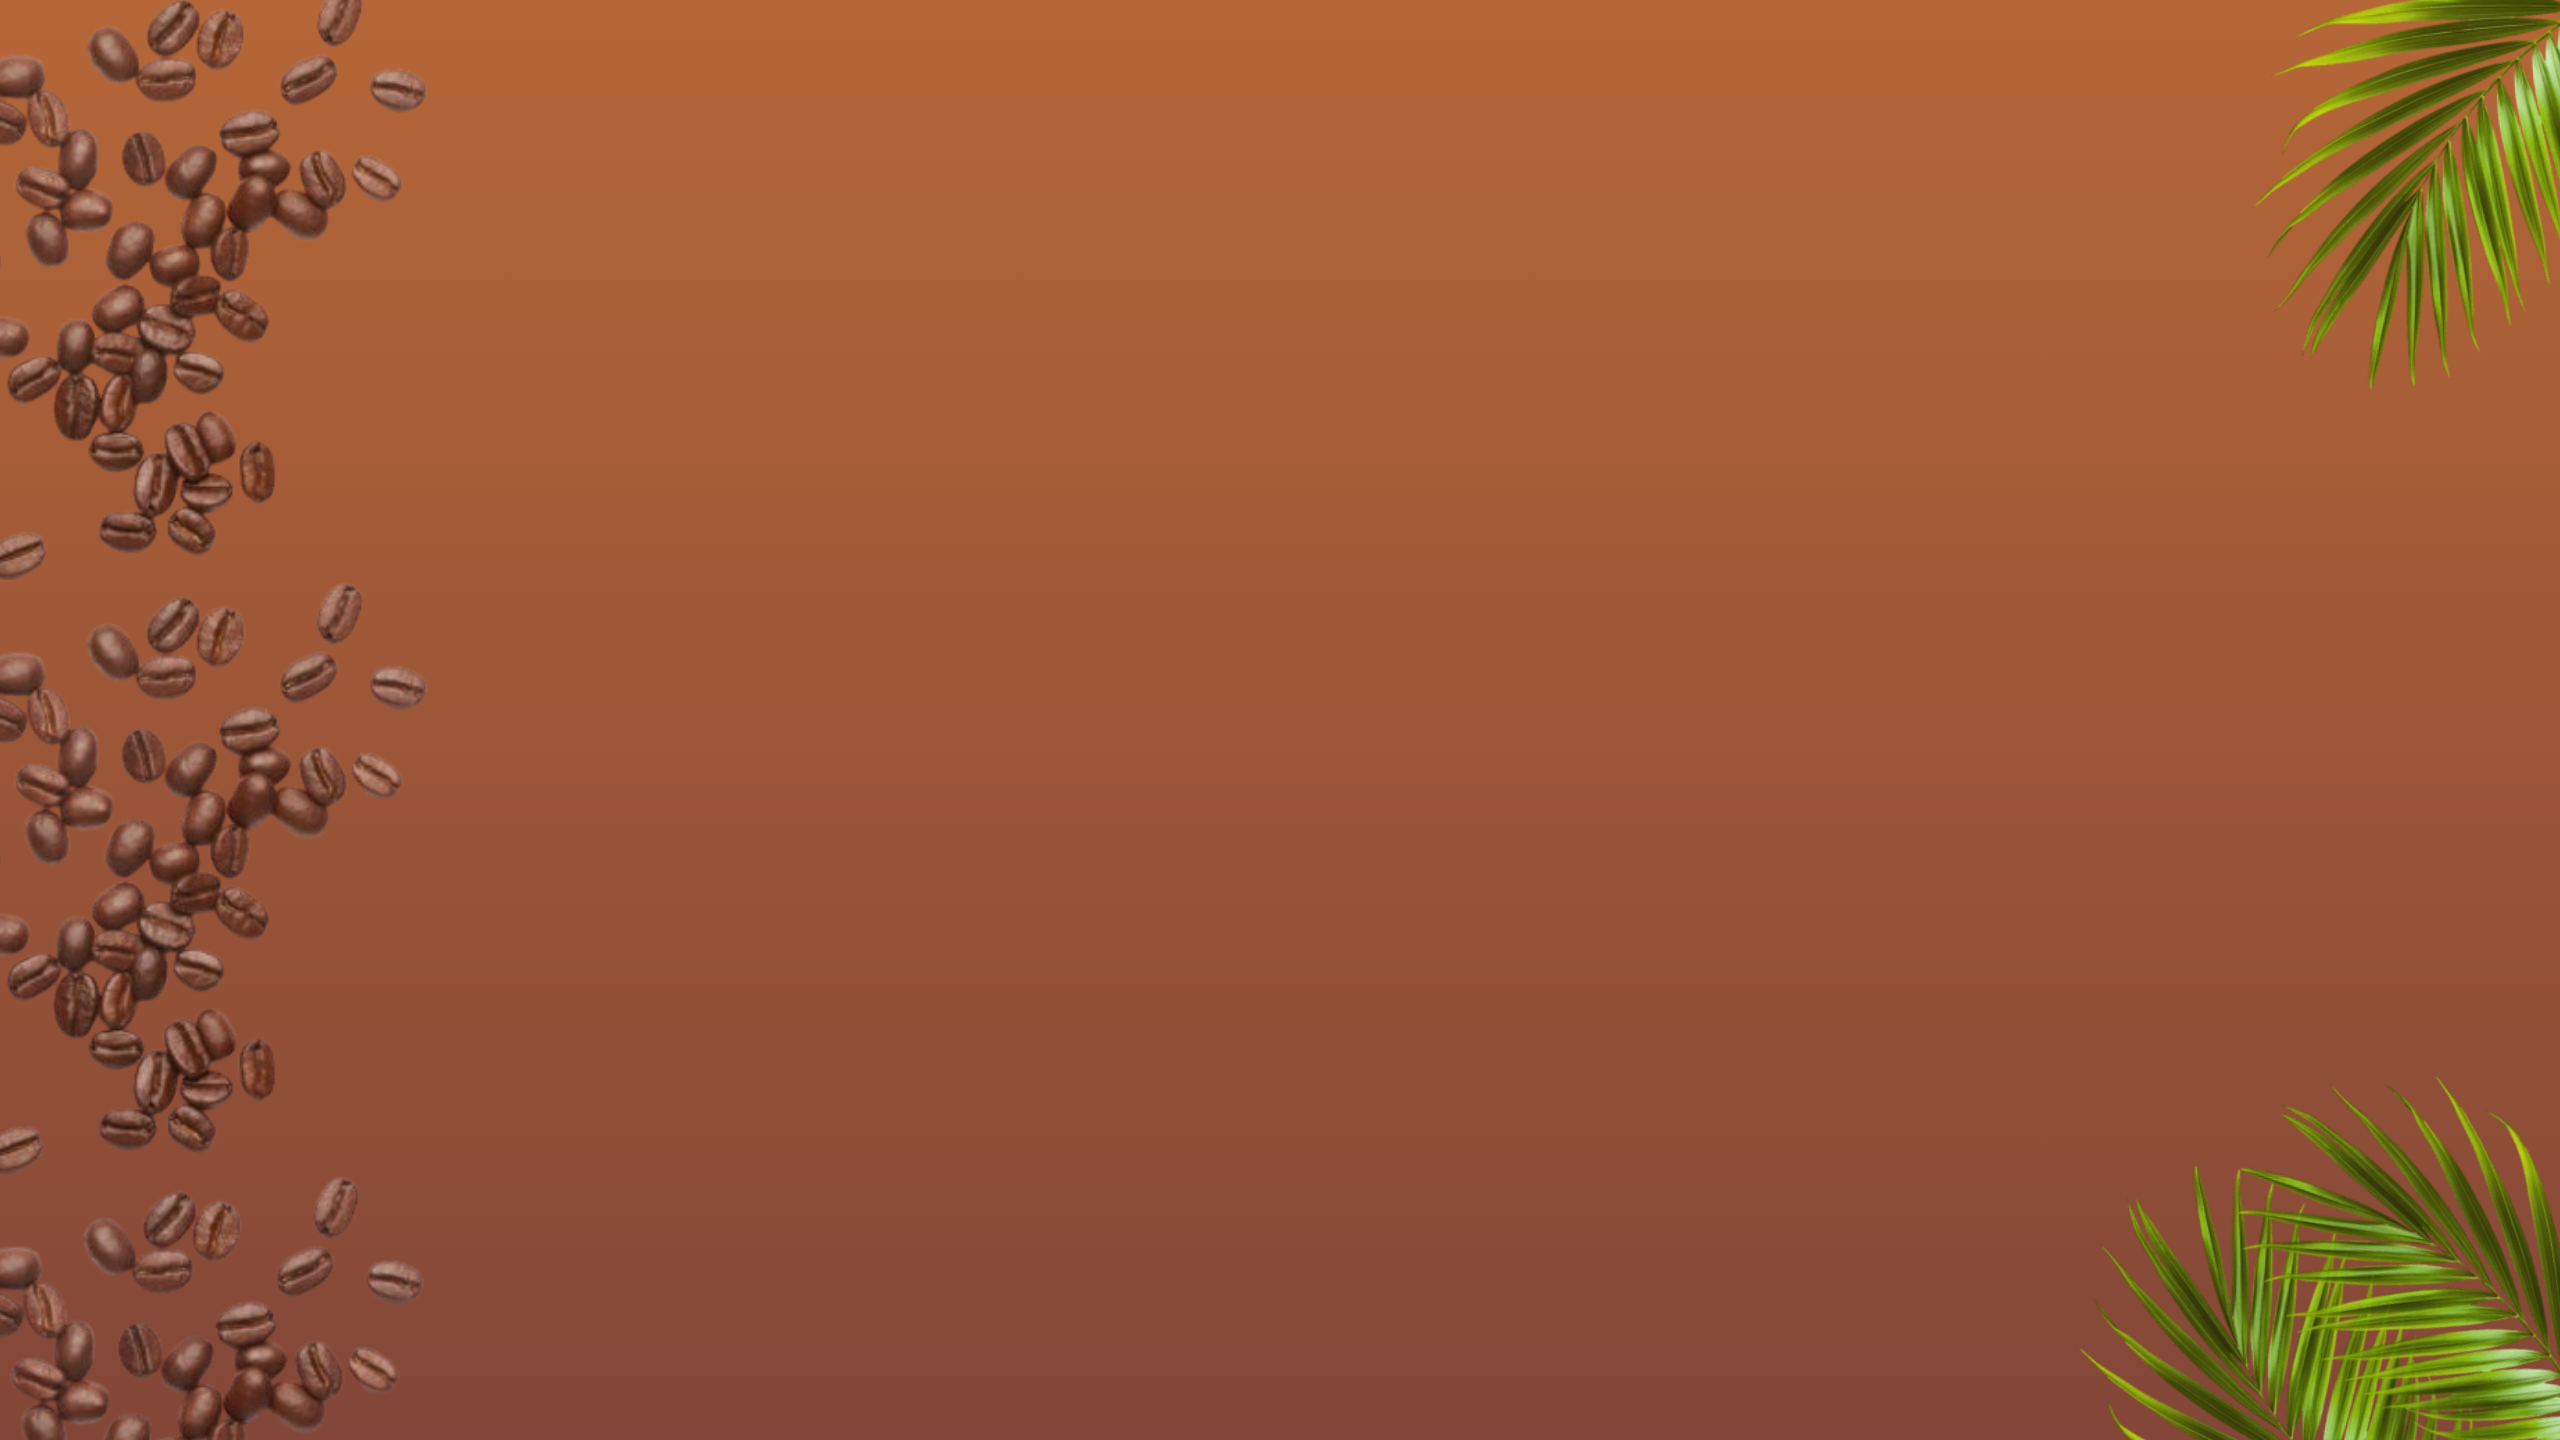
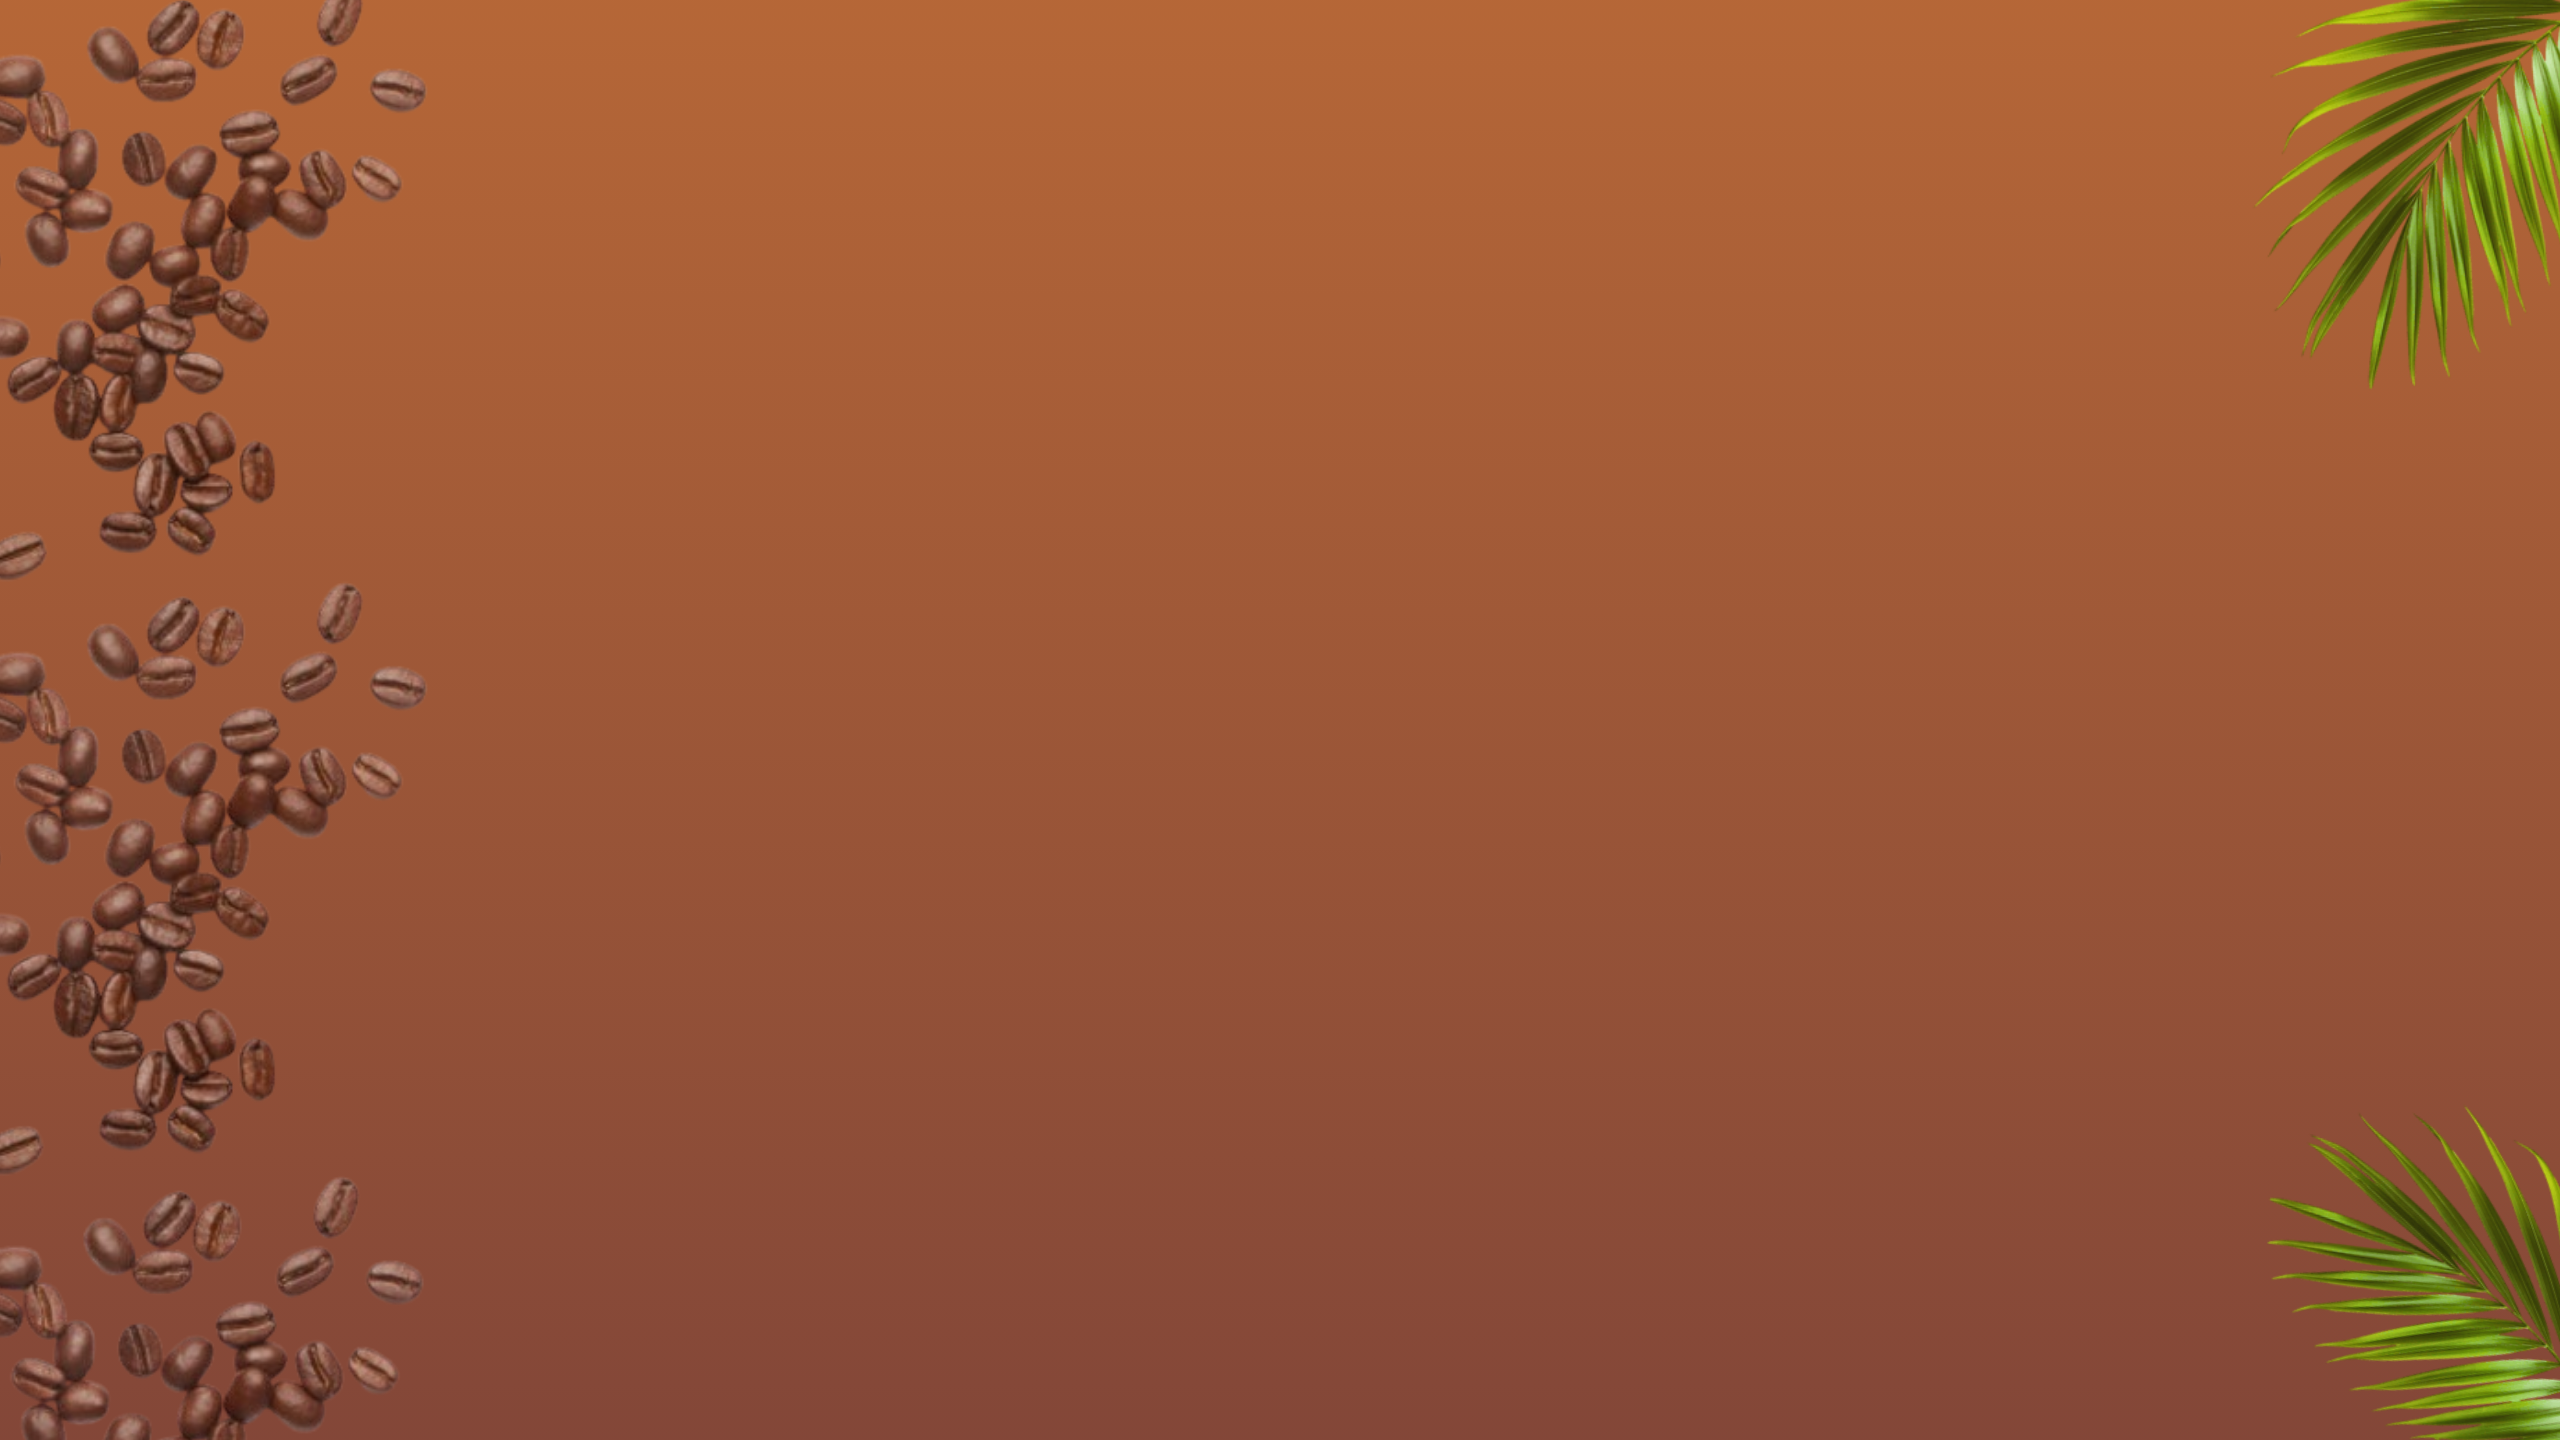
feat: Changed the bg color and image

Changed region(s): [[0.8125, 0.75, 1.0, 1.0]]

diff --git a/src/styles.css b/src/styles.css
@@ -7,7 +7,9 @@ html, body {
 body {
   margin: 0;
   font-family: "Helvetica Neue", sans-serif;
+  background-color: #844738;
   background-image: url('../public/background/linktree-bg.png');
+  background-repeat: no-repeat;
   background-size: cover;
   background-position: center;
   min-height: 100vh;
@@ -17,7 +19,7 @@ body {
 
 @media (max-width: 64rem) {
   body {
-    background-position-x: 92%;
+    background-position: right;
   }
 }
 
